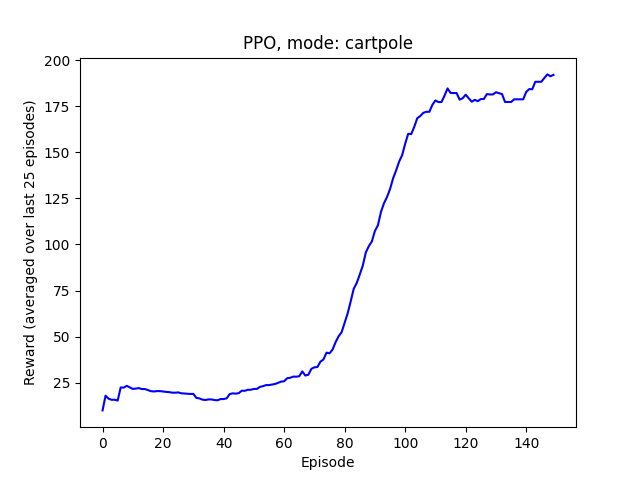
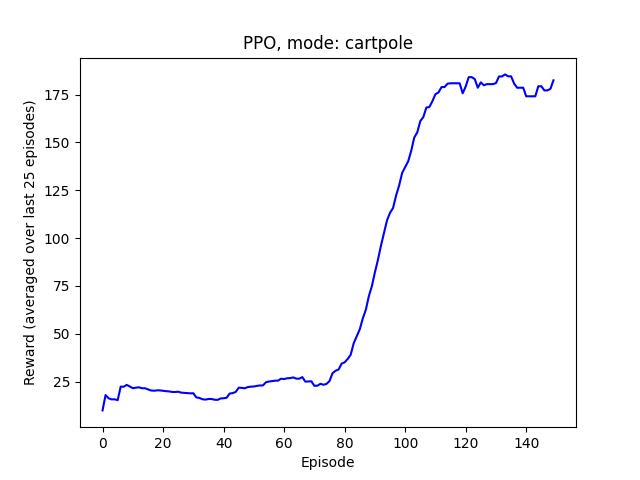
change PPO value policy update order

diff --git a/a02/p2/PPO.py b/a02/p2/PPO.py
@@ -86,23 +86,23 @@ def policy(env, obs):
 def train(S,A,returns, old_log_probs):
     value_criterion = torch.nn.MSELoss()
     for i in range(POLICY_TRAIN_ITERS):
+        # Update value networks
+        value_loss = value_criterion(V(S), returns.unsqueeze(1))
+        value_optimizer.zero_grad()
+        value_loss.backward()
+        value_optimizer.step()
+
         # Update policy networks
         advantage = (returns - V(S).squeeze()).detach()
         logsoftmax = torch.nn.LogSoftmax(dim=-1)
         log_pis = logsoftmax(pi(S)).gather(1, A.view(-1, 1)).view(-1)
-        ratio = torch.exp(log_pis - old_log_probs)
+        ratio = (log_pis - old_log_probs).exp()
         policy_target1 = ratio * advantage
         policy_target2 = torch.clamp(ratio, min=1-CLIP_PARAM, max=1+CLIP_PARAM) * advantage
         policy_loss = -torch.min(policy_target1, policy_target2).mean()
         policy_optimizer.zero_grad()
         policy_loss.backward()
         policy_optimizer.step()
-
-        # Update value networks
-        value_loss = value_criterion(V(S), returns.unsqueeze(1))
-        value_optimizer.zero_grad()
-        value_loss.backward()
-        value_optimizer.step()
 
 # Play episodes
 Rs = [] 
